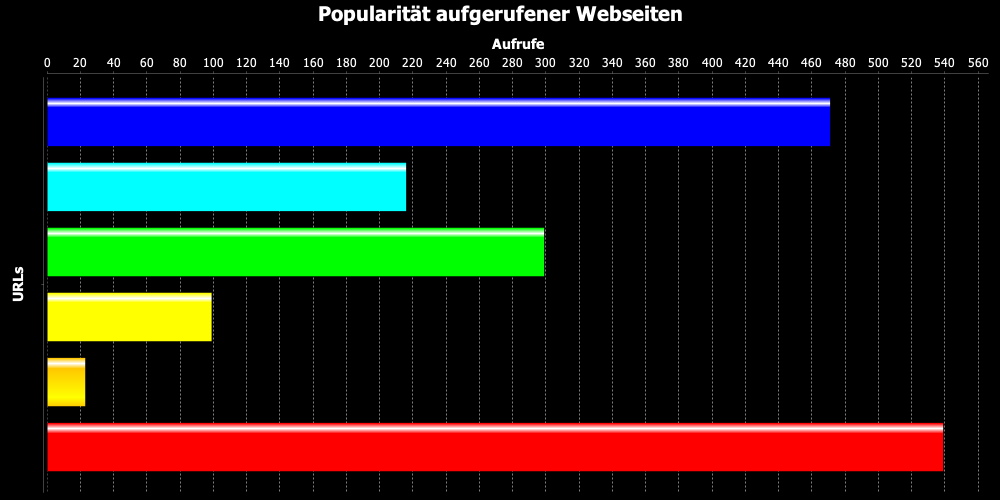
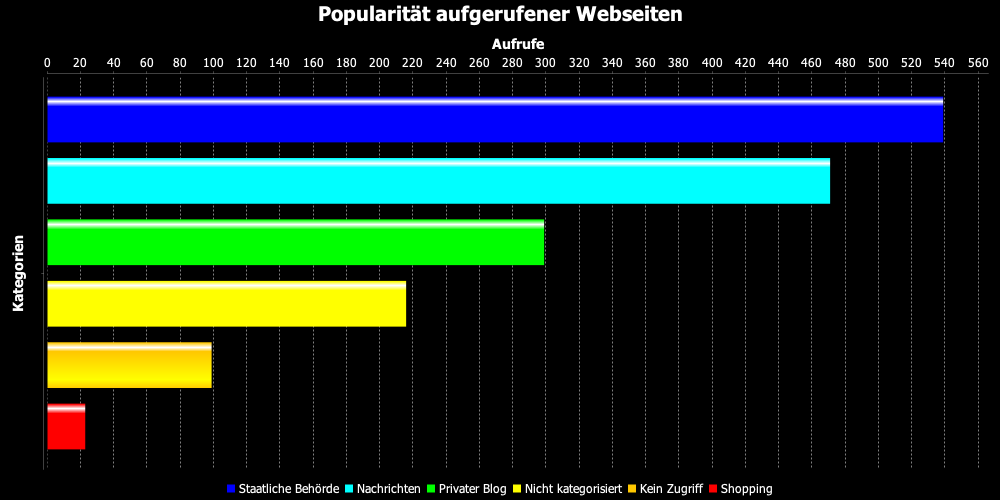
BarChart improvements

Changed region(s): [[0.0, 0.48, 0.961, 0.99], [0.031, 0.18, 0.961, 0.48]]

diff --git a/src/birdflu/BarChart.java b/src/birdflu/BarChart.java
@@ -1,11 +1,19 @@
 package birdflu;
 
+import java.util.ArrayList;
 import java.util.HashMap;
 import java.util.logging.Logger;
 
-import org.jfree.chart.ChartFactory;
 import org.jfree.chart.JFreeChart;
+import org.jfree.chart.axis.CategoryAxis;
+import org.jfree.chart.axis.NumberAxis;
+import org.jfree.chart.axis.ValueAxis;
+import org.jfree.chart.labels.ItemLabelAnchor;
+import org.jfree.chart.labels.ItemLabelPosition;
+import org.jfree.chart.plot.CategoryPlot;
 import org.jfree.chart.plot.PlotOrientation;
+import org.jfree.chart.renderer.category.BarRenderer;
+import org.jfree.chart.ui.TextAnchor;
 import org.jfree.data.category.CategoryDataset;
 import org.jfree.data.category.DefaultCategoryDataset;
 
@@ -32,26 +40,59 @@ public class BarChart implements BirdFluChart {
 		
 		CategoryDataset dataset = initDataset(source);
 		
-		JFreeChart chart = ChartFactory.createBarChart(title, categoryAxisLabel,
-				valueAxisLabel, dataset, orientation, false, false, false);
-        ChartPlotter.getTheme().apply(chart);
-        
+        CategoryAxis categoryAxis = new CategoryAxis(categoryAxisLabel);
+        ValueAxis valueAxis = new NumberAxis(valueAxisLabel);
+
+        BarRenderer renderer = new BarRenderer();
+        if (orientation == PlotOrientation.HORIZONTAL) {
+            ItemLabelPosition position1 = new ItemLabelPosition(
+                    ItemLabelAnchor.OUTSIDE3, TextAnchor.CENTER_LEFT);
+            renderer.setDefaultPositiveItemLabelPosition(position1);
+            ItemLabelPosition position2 = new ItemLabelPosition(
+                    ItemLabelAnchor.OUTSIDE9, TextAnchor.CENTER_RIGHT);
+            renderer.setDefaultNegativeItemLabelPosition(position2);
+        } else if (orientation == PlotOrientation.VERTICAL) {
+            ItemLabelPosition position1 = new ItemLabelPosition(
+                    ItemLabelAnchor.OUTSIDE12, TextAnchor.BOTTOM_CENTER);
+            renderer.setDefaultPositiveItemLabelPosition(position1);
+            ItemLabelPosition position2 = new ItemLabelPosition(
+                    ItemLabelAnchor.OUTSIDE6, TextAnchor.TOP_CENTER);
+            renderer.setDefaultNegativeItemLabelPosition(position2);
+        }
+
+        CategoryPlot plot = new CategoryPlot(dataset, categoryAxis, valueAxis,
+                renderer);
+        plot.setOrientation(orientation);
+        JFreeChart chart = new JFreeChart(title, JFreeChart.DEFAULT_TITLE_FONT,
+                plot, true);
+        new Theme().apply(chart);
         return chart;
 	}
 	
 	private CategoryDataset initDataset(HashMap<String, Integer> source) {
 		
-		DefaultCategoryDataset dataset = new DefaultCategoryDataset();
+//		Dataset lässt sich nicht sortieren, daher Umwandlung der HashMap in eine
+//		verschachtelte ArrayList mit anschließender Sortierung
 		
+		ArrayList<ArrayList<Object>> list = new ArrayList<ArrayList<Object>>();
 		for(String key : source.keySet()) {
 			Integer value = source.get(key);
 			if(value > threshold) {
-				dataset.addValue(value, key, "");
+				ArrayList<Object> element = new ArrayList<Object>();
+				element.add(key); // Index 0
+				element.add(value); // Index 1
+				list.add(element);
 			}
 		}
+		list.sort((ArrayList<Object> a, ArrayList<Object> b)
+				-> (Integer) b.get(1) - (Integer) a.get(1));
 		
+		DefaultCategoryDataset dataset = new DefaultCategoryDataset();
+		
+		for(ArrayList<Object> element : list) {
+			dataset.addValue((Integer) element.get(1), (String) element.get(0), "");
+		}
 		return dataset;
-		
 	}
 	
 	public static BarChart createBarChart(String filename, Query query, String title,
@@ -80,6 +121,66 @@ public class BarChart implements BirdFluChart {
 			return null;
 		}
 	}
+	
+	public static BarChart createBarChart2(String filename, Query refQuery, Query datQuery,
+			String title, String categoryAxisLabel, String valueAxisLabel, boolean horizontal,
+			int threshold) {
+		
+		HashMap<String, Integer> source = null;
+		PlotOrientation orientation =
+				(horizontal) ? PlotOrientation.HORIZONTAL : PlotOrientation.VERTICAL;
+		
+		try {
+			source = datQuery.getMap(KEY_COLUMN, VALUE_COLUMN);
+			source.put("VOGELGRIPPE", refQuery.getList(1).element());
+		} catch (NoDataException e) {
+			Logger.getLogger("Chart Logger").warning("Could not create BarChart for "
+					+ filename + "\nNoDataException: " + e.getMessage());
+		} finally {
+			datQuery.close();
+			refQuery.close();
+		}
+		
+		if(source != null) {
+			return new BarChart(filename, source, title, categoryAxisLabel, valueAxisLabel,
+					orientation, threshold);
+		} else {
+			Logger.getLogger("Chart Logger").warning
+			("Could not create BarChart for " + filename);
+			return null;
+		}
+	}
+	
+// TODO: createBarChart3	
+	
+//	public static BarChart createBarChart3(String filename, Query refQuery, Query datQuery,
+//			String title, String valueAxisLabel, String refLabel, String datLabel,
+//			boolean horizontal, int threshold) {
+//		
+//		HashMap<String, Integer> source = new HashMap<String, Integer>();
+//		PlotOrientation orientation =
+//				(horizontal) ? PlotOrientation.HORIZONTAL : PlotOrientation.VERTICAL;
+//		
+//		try {
+//			source.put(refLabel, refQuery.getList(1).element());
+//			source.put(datLabel, datQuery.getList(1).element());
+//		} catch (NoDataException e) {
+//			Logger.getLogger("Chart Logger").warning("Could not create BarChart for "
+//					+ filename + "\nNoDataException: " + e.getMessage());
+//		} finally {
+//			refQuery.close();
+//			datQuery.close();
+//		}
+//		
+//		if(source.size() > 1) {
+//			return new BarChart(filename, source, title, "", valueAxisLabel, orientation,
+//					threshold);
+//		} else {
+//			Logger.getLogger("Chart Logger").warning
+//			("Could not create BarChart for " + filename);
+//			return null;
+//		}
+//	}
 	
 	@Override
 	public JFreeChart getChart() {

diff --git a/src/birdflu/ChartPlotter.java b/src/birdflu/ChartPlotter.java
@@ -12,11 +12,7 @@ import java.util.logging.Handler;
 import java.util.logging.Level;
 import java.util.logging.Logger;
 
-import org.jfree.chart.ChartTheme;
 import org.jfree.chart.ChartUtils;
-import org.jfree.chart.StandardChartTheme;
-import org.jfree.chart.plot.DefaultDrawingSupplier;
-import org.jfree.chart.plot.PieLabelLinkStyle;
 
 /**
  * Class for generating charts for the semester project "Bird Flu"
@@ -149,7 +145,7 @@ public class ChartPlotter {
 		String title = in.nextLine();
 		
 		switch (chartType) {
-			case "LineChartPCM":
+			case "LineChartPCM": // Für: Anzahl der Suchanfragen (Frage 1B)
 				String pcmXaxis = in.nextLine();
 				String pcmYaxis = in.nextLine();
 				String dividendQuery = in.nextLine();
@@ -158,19 +154,47 @@ public class ChartPlotter {
 				return LineChart.createLineChartPCM
 						(filename, new Query(dividendQuery), new Query(divisorQuery),
 								title, pcmXaxis, pcmYaxis);
-			case "PieChart":
+			case "PieChart": // Für: Popularität der Suchbegriffe (Frage 1A)
 				String pieQuery = in.nextLine();
 				Logger.getLogger("File Logger").fine(filename + " read succesfully");
 				return PieChart.createPieChart(filename, new Query(pieQuery), title,
 						threshold);
-			case "BarChart":
-				String catAxis = in.nextLine();
-				String valAxis = in.nextLine();
-				boolean horizontal = (Integer.parseInt(in.nextLine()) != 0) ? true : false;
-				String barQuery = in.nextLine();
+			case "BarChart1": // Für: Landesbezüge (Frage 2), Webseitenkategorien (Frage 4)
+				String catAxis1 = in.nextLine();
+				String valAxis1 = in.nextLine();
+				boolean horizontal1 = (Integer.parseInt(in.nextLine()) != 0) ? true : false;
+				String datQuery1 = in.nextLine();
 				Logger.getLogger("File Logger").fine(filename + " read succesfully");
-				return BarChart.createBarChart(filename, new Query(barQuery), title,
-						catAxis, valAxis, horizontal, threshold);
+				return BarChart.createBarChart(filename, new Query(datQuery1), title,
+						catAxis1, valAxis1, horizontal1, threshold);
+			case "BarChart2": // Für: Vergleich mit anderen Krankheiten (Frage 9)
+				String catAxis2 = in.nextLine();
+				String valAxis2 = in.nextLine();
+				String refQuery2 = in.nextLine();
+				String datQuery2 = in.nextLine();
+				Logger.getLogger("File Logger").fine(filename + " read succesfully");
+				return BarChart.createBarChart2(filename, new Query(refQuery2),
+						new Query(datQuery2), title, catAxis2, valAxis2, true, threshold);
+			case "BarChart3": // Für: Folgesuchen (Fragen 6-8)
+				String fullTitle = "Folgesuchen zum Thema " + title;
+				String valAxis3 = "Anzahl individueller Nutzer*innen";
+				String refLabel3 = "... die nach der Vogelgrippe gesucht haben";
+				String refQuery3 = in.nextLine();
+				LinkedList<String[]> data3 = new LinkedList<String[]>();
+				while(in.hasNextLine()) {
+					String[] element = new String[2];
+					element[0] = "... und auch nach Begriffen zum Thema " + in.nextLine()
+						+ " gesucht haben";
+					element[1] = in.nextLine();
+					data3.add(element);
+				}
+				Logger.getLogger("File Logger").fine(filename + " read succesfully");
+				return null;
+// TODO: createBarChart3
+
+//				return BarChart.createBarChart3(filename, new Query(refQuery3),
+//						new Query(datQuery3), fullTitle, valAxis3, refLabel3, datLabel3,
+//						false, threshold);
 			default:
 				return null;
 		}
@@ -197,32 +221,5 @@ public class ChartPlotter {
 			Logger.getLogger("File Logger").severe
 			("Could not save chart because it does not exist");
 		}
-	}
-	
-	public static ChartTheme getTheme() {
-		StandardChartTheme theme = new StandardChartTheme("Bird Flu");
-		theme.setTitlePaint(Colors.TEXT);
-        theme.setSubtitlePaint(Colors.TEXT);
-        theme.setLegendBackgroundPaint(Colors.BACKGROUND);
-        theme.setLegendItemPaint(Colors.TEXT);
-        theme.setChartBackgroundPaint(Colors.BACKGROUND);
-        theme.setPlotBackgroundPaint(Colors.BACKGROUND);
-        theme.setPlotOutlinePaint(Colors.BACKGROUND);
-        theme.setBaselinePaint(Colors.LINE);
-        theme.setLabelLinkStyle(PieLabelLinkStyle.STANDARD);
-        theme.setLabelLinkPaint(Colors.LINE);
-        theme.setTickLabelPaint(Colors.TEXT);
-        theme.setAxisLabelPaint(Colors.TEXT);
-        theme.setShadowVisible(false);
-        theme.setItemLabelPaint(Colors.TEXT);
-        theme.setDrawingSupplier(new DefaultDrawingSupplier(
-                Colors.FILL_SEQUENCE, Colors.FILL_SEQUENCE,
-                DefaultDrawingSupplier.DEFAULT_OUTLINE_PAINT_SEQUENCE,
-                DefaultDrawingSupplier.DEFAULT_STROKE_SEQUENCE,
-                DefaultDrawingSupplier.DEFAULT_OUTLINE_STROKE_SEQUENCE,
-                DefaultDrawingSupplier.DEFAULT_SHAPE_SEQUENCE));
-        theme.setGridBandPaint(Colors.LINE);
-        return theme;
-//		return StandardChartTheme.createDarknessTheme();
 	}
 }

diff --git a/src/birdflu/Theme.java b/src/birdflu/Theme.java
@@ -1,0 +1,38 @@
+package birdflu;
+
+import org.jfree.chart.StandardChartTheme;
+import org.jfree.chart.plot.DefaultDrawingSupplier;
+import org.jfree.chart.plot.PieLabelLinkStyle;
+
+/**
+ * @author simonaschenbrenner
+ *
+ */
+public class Theme extends StandardChartTheme {
+	
+	public Theme() {
+		super("Bird Flu");
+		setTitlePaint(Colors.TEXT);
+        setSubtitlePaint(Colors.TEXT);
+        setLegendBackgroundPaint(Colors.BACKGROUND);
+        setLegendItemPaint(Colors.TEXT);
+        setChartBackgroundPaint(Colors.BACKGROUND);
+        setPlotBackgroundPaint(Colors.BACKGROUND);
+        setPlotOutlinePaint(Colors.BACKGROUND);
+        setBaselinePaint(Colors.LINE);
+        setLabelLinkStyle(PieLabelLinkStyle.STANDARD);
+        setLabelLinkPaint(Colors.LINE);
+        setTickLabelPaint(Colors.TEXT);
+        setAxisLabelPaint(Colors.TEXT);
+        setShadowVisible(false);
+        setItemLabelPaint(Colors.TEXT);
+        setDrawingSupplier(new DefaultDrawingSupplier(
+                Colors.FILL_SEQUENCE, Colors.FILL_SEQUENCE,
+                DefaultDrawingSupplier.DEFAULT_OUTLINE_PAINT_SEQUENCE,
+                DefaultDrawingSupplier.DEFAULT_STROKE_SEQUENCE,
+                DefaultDrawingSupplier.DEFAULT_OUTLINE_STROKE_SEQUENCE,
+                DefaultDrawingSupplier.DEFAULT_SHAPE_SEQUENCE));
+        setGridBandPaint(Colors.LINE);
+	}
+
+}

diff --git a/src/birdflu/PieChart.java b/src/birdflu/PieChart.java
@@ -35,11 +35,10 @@ public class PieChart implements BirdFluChart {
 		
 		PiePlot plot = new PiePlot(dataset);
 		plot.setLabelGenerator(new StandardPieSectionLabelGenerator("{0} ({2})"));
-		plot.setInsets(new RectangleInsets(0.0, 5.0, 5.0, 5.0));
+		plot.setInsets(new RectangleInsets(0.0, 5.0, 5.0, 5.0)); 
 		plot.setDirection(Rotation.CLOCKWISE);
 		JFreeChart chart = new JFreeChart(title, JFreeChart.DEFAULT_TITLE_FONT, plot, false);
-        ChartPlotter.getTheme().apply(chart);
-        
+        new Theme().apply(chart);
         return chart;
 	}
 	

diff --git a/src/birdflu/LineChart.java b/src/birdflu/LineChart.java
@@ -81,7 +81,7 @@ public class LineChart implements BirdFluChart {
         plot.setRenderer(renderer);
         
         JFreeChart chart = new JFreeChart(title, JFreeChart.DEFAULT_TITLE_FONT, plot, false);
-        ChartPlotter.getTheme().apply(chart);
+        new Theme().apply(chart);
 
         return chart;
 	}
